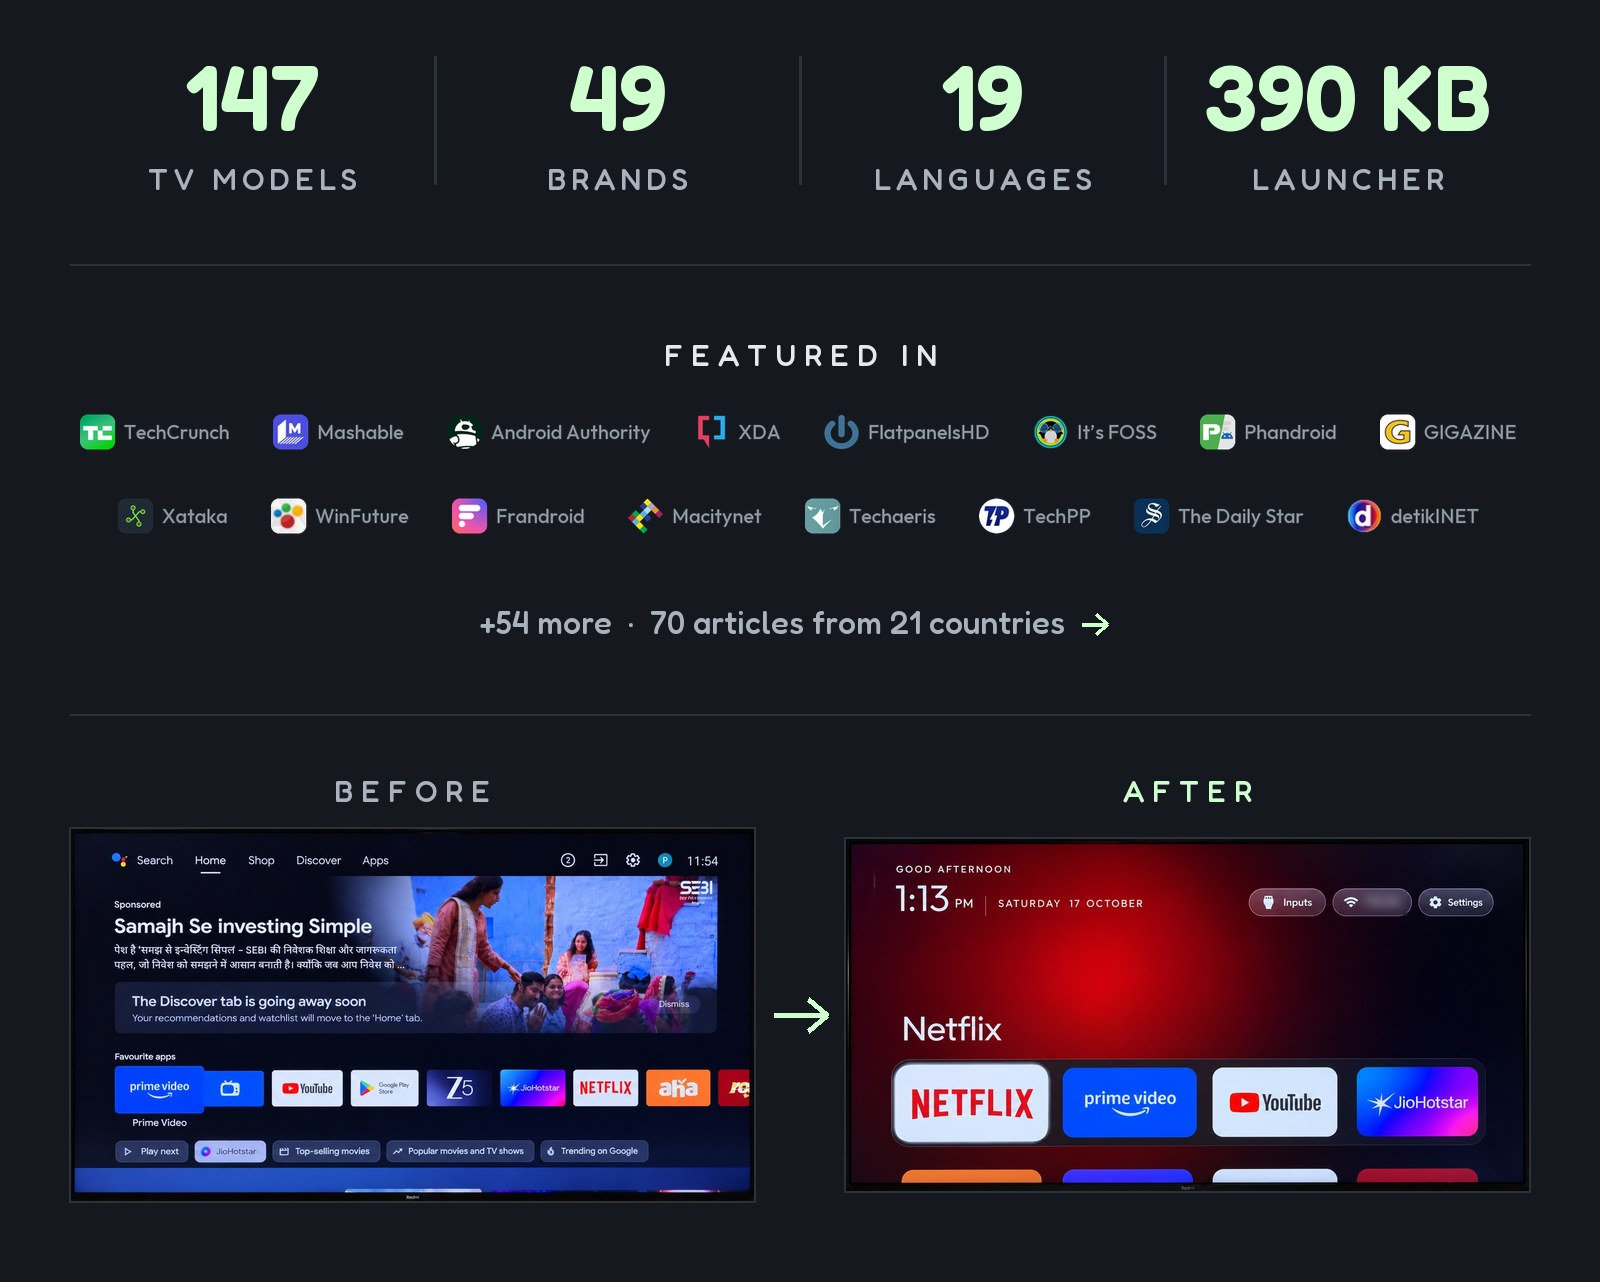
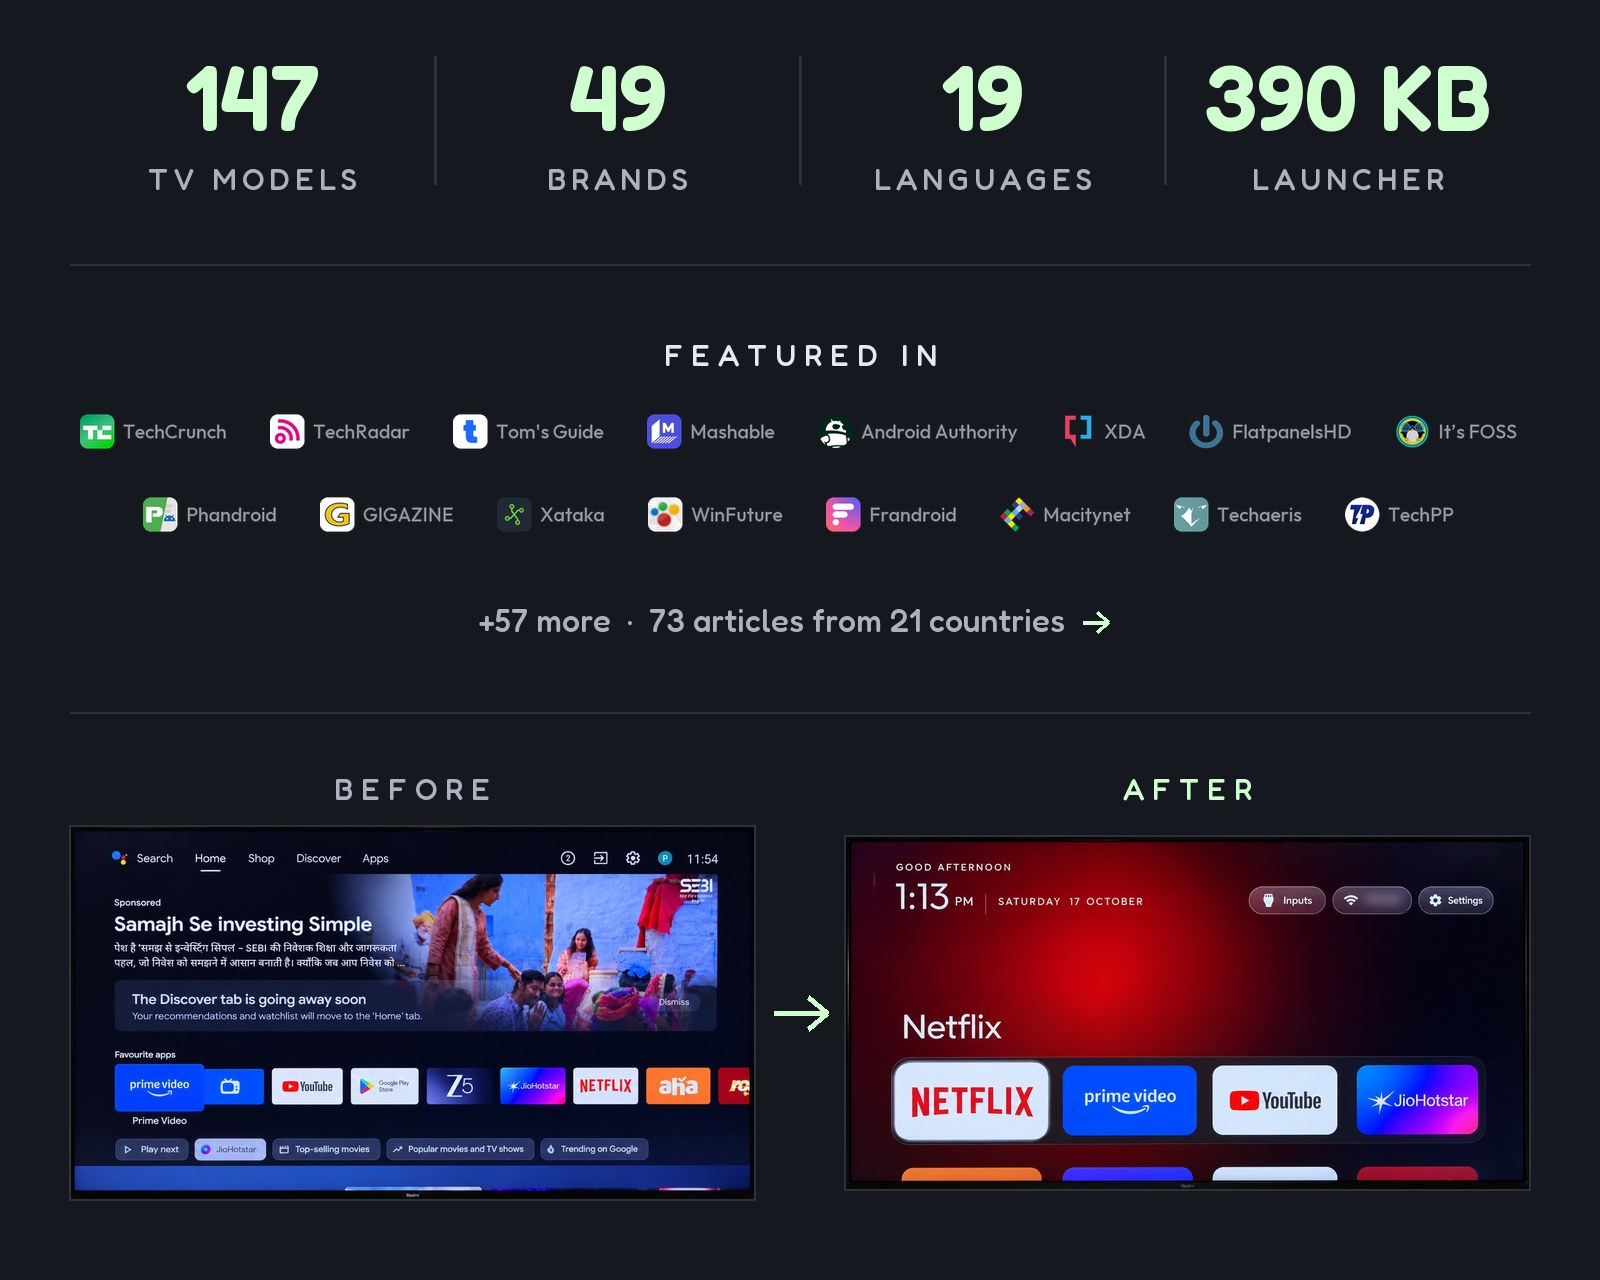
Press: TechRadar, Tom's Guide and Decrypt (73 articles); both big names join the README card

diff --git a/tools/readme_featured.py b/tools/readme_featured.py
@@ -5,9 +5,9 @@ and rebuild the card with tools/readme_card.py. Logos come from docs/press/."""
 import sys
 from PIL import Image, ImageDraw, ImageFont
 FONT, OUT = sys.argv[1], sys.argv[2]
-LOGOS = ["techcrunch", "mashable", "androidauthority", "xda", "flatpanelshd", "itsfoss", "phandroid", "gigazine",
-         "xataka", "winfuture", "frandroid", "macitynet", "techaeris", "techpp", "thedailystar", "detikinet"]
-MORE = "+54 more  ·  70 articles from 21 countries"
+LOGOS = ["techcrunch", "techradar", "tomsguide", "mashable", "androidauthority", "xda", "flatpanelshd", "itsfoss",
+         "phandroid", "gigazine", "xataka", "winfuture", "frandroid", "macitynet", "techaeris", "techpp"]
+MORE = "+57 more  ·  73 articles from 21 countries"
 W, LH, GAP, ROWGAP, PAD = 1600, 54, 40, 36, 80
 def f(size, wt):
     x = ImageFont.truetype(FONT, size); x.set_variation_by_axes([wt]); return x

diff --git a/docs/PRESS.md b/docs/PRESS.md
@@ -1,10 +1,10 @@
 # CleanYourTV in the press
 
-Every article about CleanYourTV (called tv-vibehack until 19 October 2026) that we could open and check: **70 articles**, 46 of them from outlets in 21 countries, 4 from Spanish-language sites in Latin America and 20 from newsletters, blogs and AI news sites. Headlines are in the language they were published in. Syndicated copies and auto-generated listings are left out.
+Every article about CleanYourTV (called tv-vibehack until 19 October 2026) that we could open and check: **73 articles**, 49 of them from outlets in 21 countries, 4 from Spanish-language sites in Latin America and 20 from newsletters, blogs and AI news sites. Headlines are in the language they were published in. Syndicated copies and auto-generated listings are left out.
 
 Wrote about it and not here? Open an issue or a pull request with the link.
 
-[United States](#united-states)&nbsp;7 · [United Kingdom](#united-kingdom)&nbsp;1 · [India](#india)&nbsp;2 · [Denmark](#denmark)&nbsp;1 · [Japan](#japan)&nbsp;2 · [Bangladesh](#bangladesh)&nbsp;1 · [United Arab Emirates](#united-arab-emirates)&nbsp;1 · [France](#france)&nbsp;3 · [Germany](#germany)&nbsp;2 · [Spain](#spain)&nbsp;2 · [Italy](#italy)&nbsp;1 · [Norway](#norway)&nbsp;1 · [Portugal](#portugal)&nbsp;1 · [Czechia](#czechia)&nbsp;1 · [Greece](#greece)&nbsp;1 · [Egypt](#egypt)&nbsp;1 · [Brazil](#brazil)&nbsp;3 · [Latin America (Spanish-language)](#latin-america-spanish-language)&nbsp;4 · [China](#china)&nbsp;7 · [Taiwan](#taiwan)&nbsp;1 · [Indonesia](#indonesia)&nbsp;6 · [Thailand](#thailand)&nbsp;1 · [Online (newsletters, blogs, AI news)](#online-newsletters-blogs-ai-news)&nbsp;20
+[United States](#united-states)&nbsp;9 · [United Kingdom](#united-kingdom)&nbsp;2 · [India](#india)&nbsp;2 · [Denmark](#denmark)&nbsp;1 · [Japan](#japan)&nbsp;2 · [Bangladesh](#bangladesh)&nbsp;1 · [United Arab Emirates](#united-arab-emirates)&nbsp;1 · [France](#france)&nbsp;3 · [Germany](#germany)&nbsp;2 · [Spain](#spain)&nbsp;2 · [Italy](#italy)&nbsp;1 · [Norway](#norway)&nbsp;1 · [Portugal](#portugal)&nbsp;1 · [Czechia](#czechia)&nbsp;1 · [Greece](#greece)&nbsp;1 · [Egypt](#egypt)&nbsp;1 · [Brazil](#brazil)&nbsp;3 · [Latin America (Spanish-language)](#latin-america-spanish-language)&nbsp;4 · [China](#china)&nbsp;7 · [Taiwan](#taiwan)&nbsp;1 · [Indonesia](#indonesia)&nbsp;6 · [Thailand](#thailand)&nbsp;1 · [Online (newsletters, blogs, AI news)](#online-newsletters-blogs-ai-news)&nbsp;20
 
 ## United States
 
@@ -16,12 +16,15 @@ Wrote about it and not here? Open an issue or a pull request with the link.
 | XDA | [People are now vibe-coding their smart TVs to strip them of ads and unwanted features](https://www.xda-developers.com/people-are-now-vibe-coding-their-smart-tvs-to-strip-them-of-ads-and-unwanted-features/) | 19&nbsp;Oct |
 | Phandroid | [Smart TV Owners Are Using AI to Strip the Ads Off Their Sets](https://phandroid.com/2026/10/20/smart-tv-owners-are-using-ai-to-strip-the-ads-off-their-sets/) | 20&nbsp;Oct |
 | Techaeris | [Android TV Debloat Gets a Free tvOS-Style Makeover](https://techaeris.com/2026/10/18/android-tv-debloat-tvos-style-makeover/) | 18&nbsp;Oct |
+| Tom's Guide | [People are using AI to turn their smart TVs into dumb TVs — and you might want to do the same](https://www.tomsguide.com/ai/people-are-using-ai-to-turn-their-smart-tvs-into-dumb-tvs-and-you-might-want-to-do-the-same) | 20&nbsp;Oct |
+| Decrypt | [People Are Vibe Coding the Ads Out of Their Smart TVs: Here's How](https://decrypt.co/381456/vibe-coding-ads-out-smart-tvs-heres-how) | 20&nbsp;Oct |
 | Gadget Review (on Yahoo Tech) | [Developers Are Using AI to Strip Ads and Tracking From Smart TVs](https://tech.yahoo.com/ai/meta-ai/articles/developers-using-ai-strip-ads-185856468.html) | 19&nbsp;Oct |
 
 ## United Kingdom
 
 | Outlet | Article | Date |
 | --- | --- | --- |
+| TechRadar | [‘Your TV should do what you paid for’: People are so sick of ads, trackers and bloat in their smart TVs that they're using AI to vibe code them away](https://www.techradar.com/entertainment/streaming/your-tv-should-do-what-you-paid-for-people-are-vibe-coding-apps-to-banish-ads-from-their-smart-tvs-and-android-tv-and-its-catching-on) | 20&nbsp;Oct |
 | Tech Times | [Man Asks AI with a Simple Prompt 'Can You Hack This?' to Fix His TV: Now Everyone Wants to Copy Him](https://www.techtimes.co.uk/ai-smart-tv-bloatware-performance-fix-1809233) | 19&nbsp;Oct |
 
 ## India

diff --git a/README.md b/README.md
@@ -13,7 +13,7 @@
 </p>
 
 <p align="center">
-  <a href="docs/PRESS.md"><img src="docs/card.jpg" alt="147 TV models · 49 brands · 19 languages · 390 KB launcher. Featured in TechCrunch, Mashable, Android Authority, XDA, FlatpanelsHD, It's FOSS, Phandroid, GIGAZINE, Xataka, WinFuture, Frandroid, Macitynet, Techaeris, TechPP, The Daily Star, detikINET and 54 more: 70 articles from 21 countries. Before: stock Google TV home with a sponsored ad. After: the Clean Your TV launcher." width="800"></a>
+  <a href="docs/PRESS.md"><img src="docs/card.jpg" alt="147 TV models · 49 brands · 19 languages · 390 KB launcher. Featured in TechCrunch, TechRadar, Tom's Guide, Mashable, Android Authority, XDA, FlatpanelsHD, It's FOSS, Phandroid, GIGAZINE, Xataka, WinFuture, Frandroid, Macitynet, Techaeris, TechPP and 57 more: 73 articles from 21 countries. Before: stock Google TV home with a sponsored ad. After: the Clean Your TV launcher." width="800"></a>
 </p>
 
 > Vibe coded my parents' TV this afternoon! It was showing a sponsored ad before you could even get
